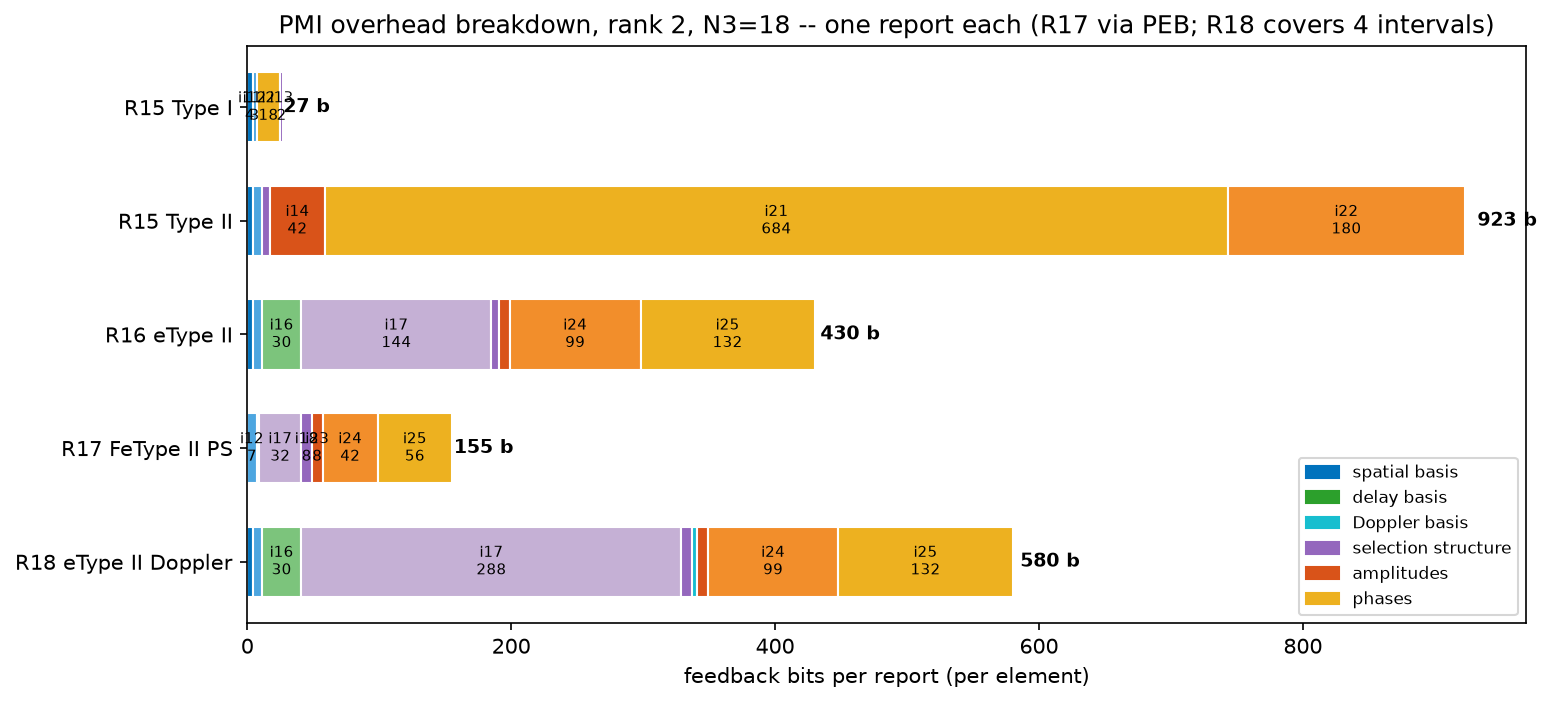
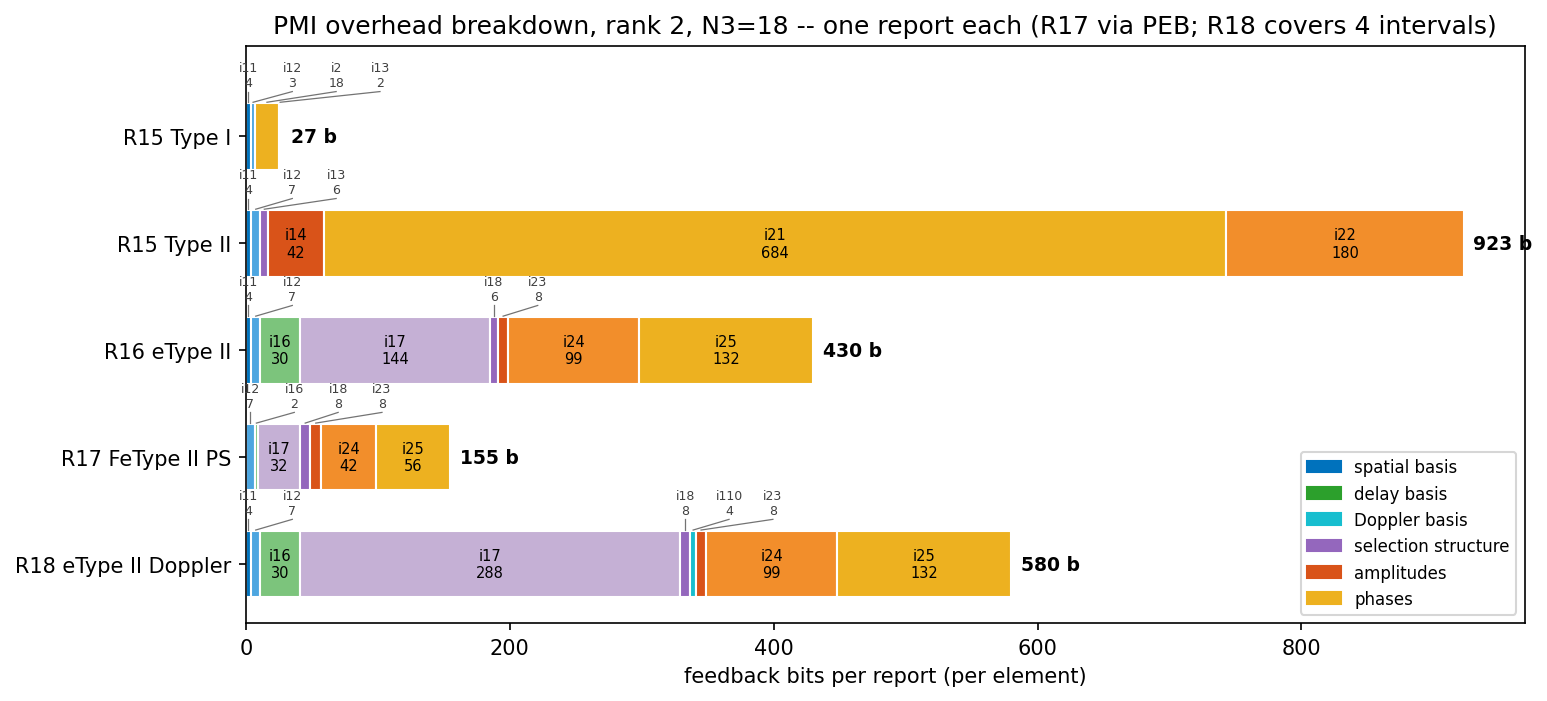
fig_03: legible labels for narrow overhead segments
The inline-label threshold was relative to each row's own total, so on the
shared axis the small-budget rows (Type I at 27 b, R17 at 155 b) printed
all their element labels on top of one another.  Segments narrower than
~3% of the axis now get staggered callouts above the bar with leader
lines; wide segments keep their inline labels.  Numbers unchanged.

diff --git a/scripts/fig_03_overhead_breakdown.py b/scripts/fig_03_overhead_breakdown.py
@@ -76,18 +76,33 @@ def main() -> None:
 
     fig, ax = plt.subplots(figsize=(11, 5))
     names = list(breakdown)
+    axis_max = max(sum(d.values()) for d in breakdown.values())
+    min_inline = 0.028 * axis_max  # narrower segments get a callout above the bar
+    min_gap = 0.036 * axis_max  # horizontal spacing between callout labels
     for y, name in enumerate(names):
         left = 0
+        callout_x = -np.inf
         for elem, bits in breakdown[name].items():
             group, color = GROUPS.get(elem, ("other", "0.6"))
             ax.barh(y, bits, left=left, color=color, edgecolor="white", height=0.62)
-            if bits > 0.04 * sum(breakdown[name].values()):
-                ax.text(left + bits / 2, y, f"{elem}\n{bits}", ha="center",
+            center = left + bits / 2
+            if bits >= min_inline:
+                ax.text(center, y, f"{elem}\n{bits}", ha="center",
                         va="center", fontsize=7)
+            elif bits > 0:
+                # too narrow on the shared axis to label inline: callout above
+                # the bar, greedily pushed right so adjacent narrow segments
+                # don't print on top of each other
+                callout_x = max(center, callout_x + min_gap)
+                ax.plot([center, callout_x], [y - 0.32, y - 0.42],
+                        lw=0.6, color="0.45")
+                ax.text(callout_x, y - 0.44, f"{elem}\n{bits}", ha="center",
+                        va="bottom", fontsize=6, color="0.25")
             left += bits
-        ax.text(left * 1.01, y, f"{left} b", va="center", fontsize=9, fontweight="bold")
+        ax.text(left + 0.008 * axis_max, y, f"{left} b", va="center", fontsize=9,
+                fontweight="bold")
     ax.set_yticks(range(len(names)), names)
-    ax.invert_yaxis()
+    ax.set_ylim(len(names) - 0.45, -0.85)  # inverted y, headroom for the callouts
     ax.set_xlabel("feedback bits per report (per element)")
     handles = []
     for group, color in dict(